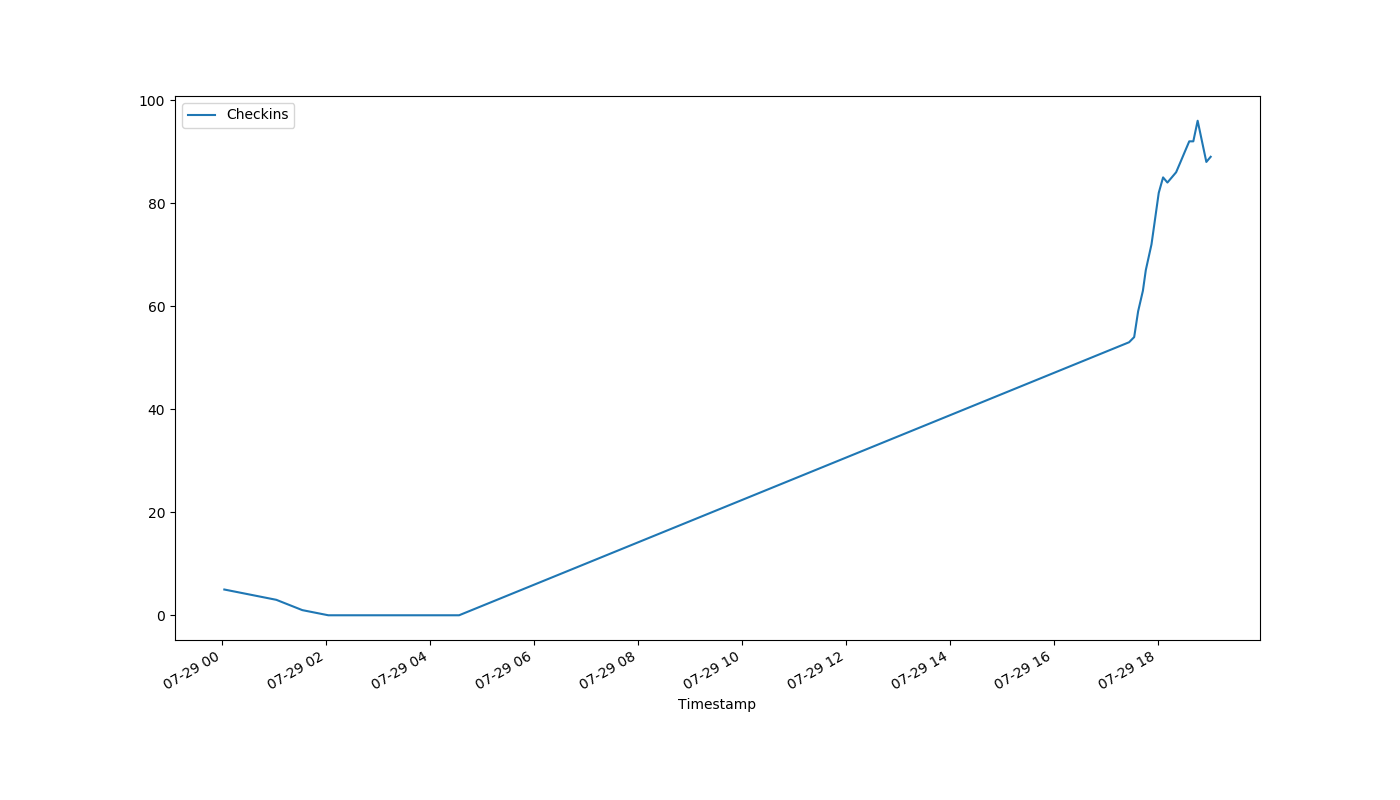
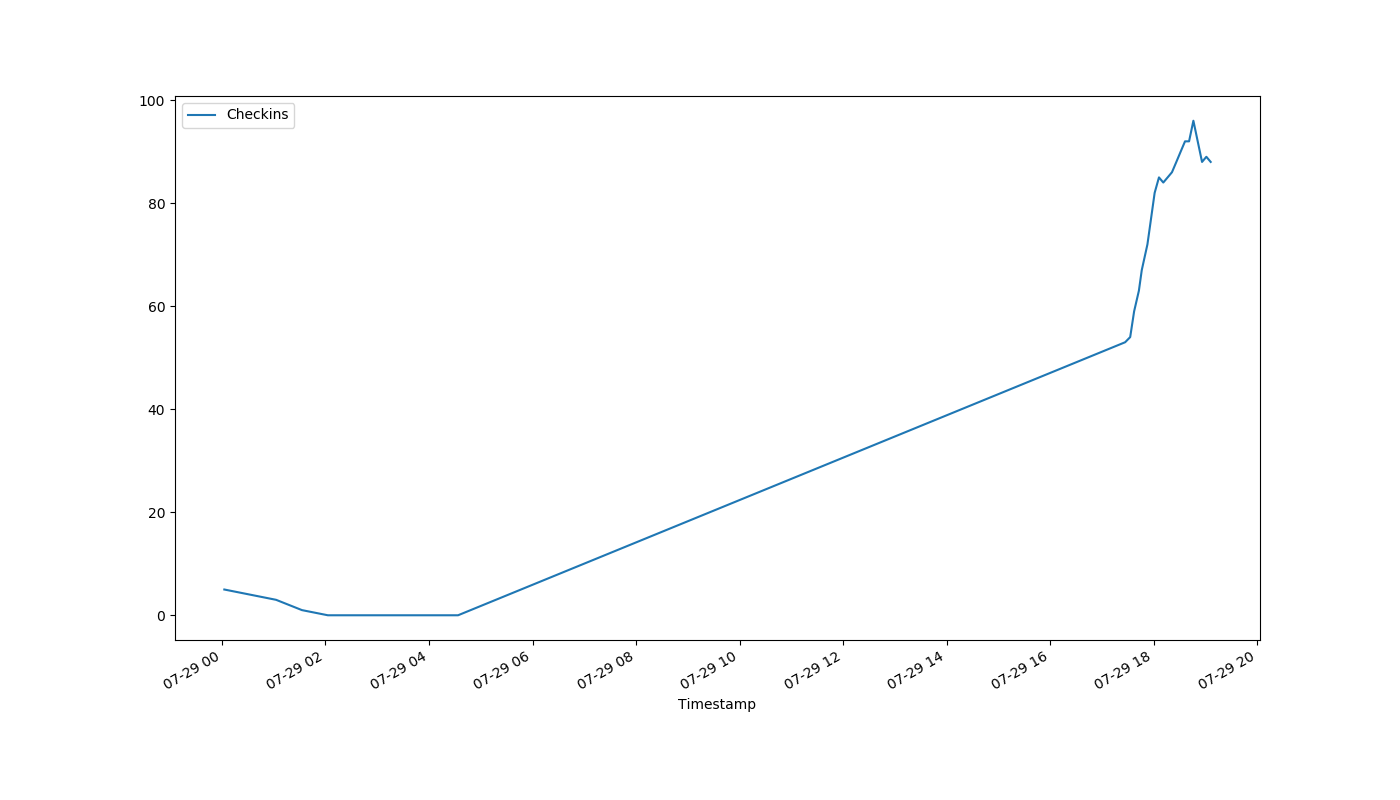
auto-Jul-29-19:08:02

diff --git a/index.html b/index.html
@@ -1,1 +1,1 @@
-<!DOCTYPE html><html><head><meta http-equiv="refresh" content="30"><link rel='stylesheet' href='holmcurrent.css'></head><body><p id='count'>89</p><div id='graph-wrap'><img id='graph' src='holmgraph-Jul-29.png'></div><p id='updated'>Last updated 19:02:02 / 19:01:03</p></body></html>
+<!DOCTYPE html><html><head><meta http-equiv="refresh" content="30"><link rel='stylesheet' href='holmcurrent.css'></head><body><p id='count'>88</p><div id='graph-wrap'><img id='graph' src='holmgraph-Jul-29.png'></div><p id='updated'>Last updated 19:07:03 / 19:06:04</p></body></html>
